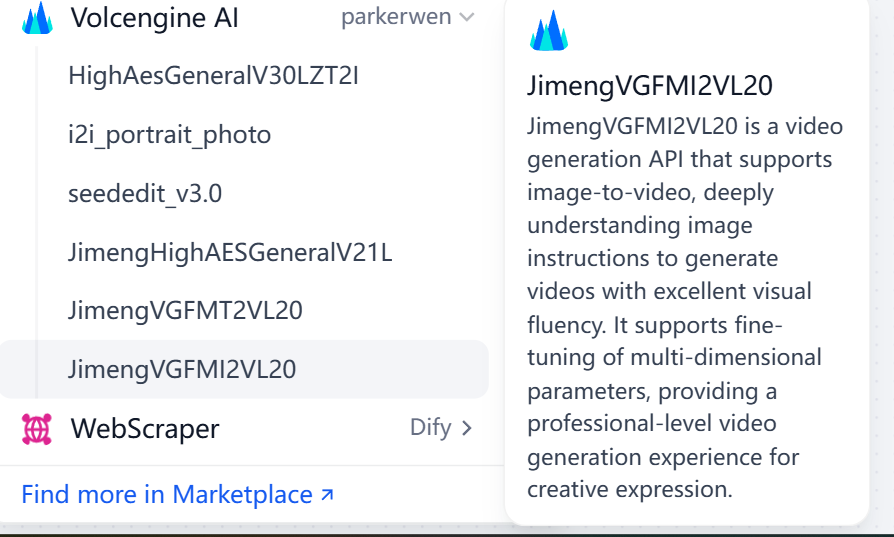
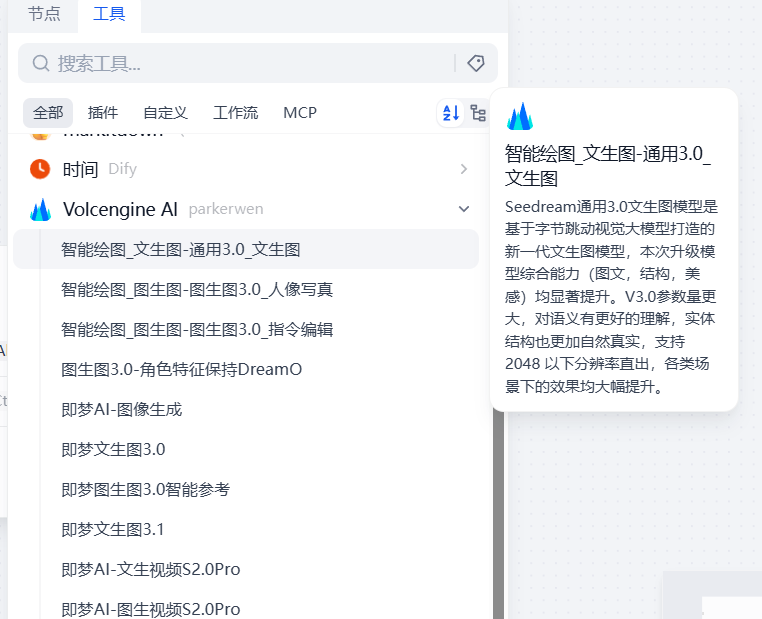
update dify plugin

diff --git a/plugins/volcengine_ai/README.md b/plugins/volcengine_ai/README.md
@@ -1,9 +1,11 @@
 ## Volcengine AI
 
 ## Overview
+
 [Volcengine (火山引擎)](https://www.volcengine.com/) is a cloud service platform offering AI model development, deployment, and management tools for data processing and analysis.
 
 ## Configuration
+
 ### 1. Register a Volcano Engine account and complete real-name authentication.
 
 For specific steps, please see [Account Registration](https://www.volcengine.com/docs/6261/64925?lang=zh) and [Real-Name Authentication](https://www.volcengine.com/docs/6261/64935?lang=zh).
@@ -36,7 +38,6 @@ You can use the Volcengine AI tool in the following application types.
 
 Both Chatflow and Workflow applications support adding Volcengine AI tool nodes.
 
-
 ## Nodes
 
 ![alt text](./_assets/v_3.png)
@@ -64,3 +65,19 @@ JimengVGFMT2VL20 is a video generation API that supports text-to-video and image
 ### JimengVGFMI2VL20
 
 JimengVGFMI2VL20 is a video generation API that supports image-to-video, deeply understanding image instructions to generate videos with excellent visual fluency. It supports fine-tuning of multi-dimensional parameters, providing a professional-level video generation experience for creative expression.
+
+### JimengI2IV30
+
+Image-to-Image V3.0 is the image-to-image capability of the same source as Jimeng. In terms of text response accuracy, graphic layout, hierarchical aesthetics, and semantic understanding capabilities, it has significantly improved compared to previous versions. The texture of portraits is more realistic, and it also supports outputting high-definition images. In addition, on the basis of more accurate text responses, it also supports response of large and small fonts, various artistic fonts, and different font weights.
+
+### JimengT2IV30
+
+Jimeng T2I V3.0 is the text-to-image capability of the same source as Jimeng. In terms of text response accuracy, graphic layout, hierarchical aesthetics, and semantic understanding capabilities, it has significantly improved compared to previous versions. The texture of portraits is more realistic, and it also supports outputting high-definition images. In addition, on the basis of more accurate text responses, it also supports response of large and small fonts, various artistic fonts, and different font weights.
+
+### JimengT2IV31
+
+Jimeng T2I V3.1 is the text-to-image capability of the same source as Jimeng. In terms of text response accuracy, graphic layout, hierarchical aesthetics, and semantic understanding capabilities, it has significantly improved compared to previous versions. The texture of portraits is more realistic, and it also supports outputting high-definition images. In addition, on the basis of more accurate text responses, it also supports response of large and small fonts, various artistic fonts, and different font weights.
+
+### Seed3lSingleIp
+
+Image-to-Image 3.0 - Character Feature Preservation DreamO is based on the self-developed Seedream 3.0 model, integrating proprietary subject preservation capabilities. It can maintain consistency between the output image's subject appearance/facial features/style characteristics and the input "single reference image", while supporting adjustments through text prompts. Subject appearance, facial features, and style characteristics work together with the input text during the generation process to create images that are consistent with the reference image's subject while conforming to the text description, achieving a balance between feature preservation and creative generation.
